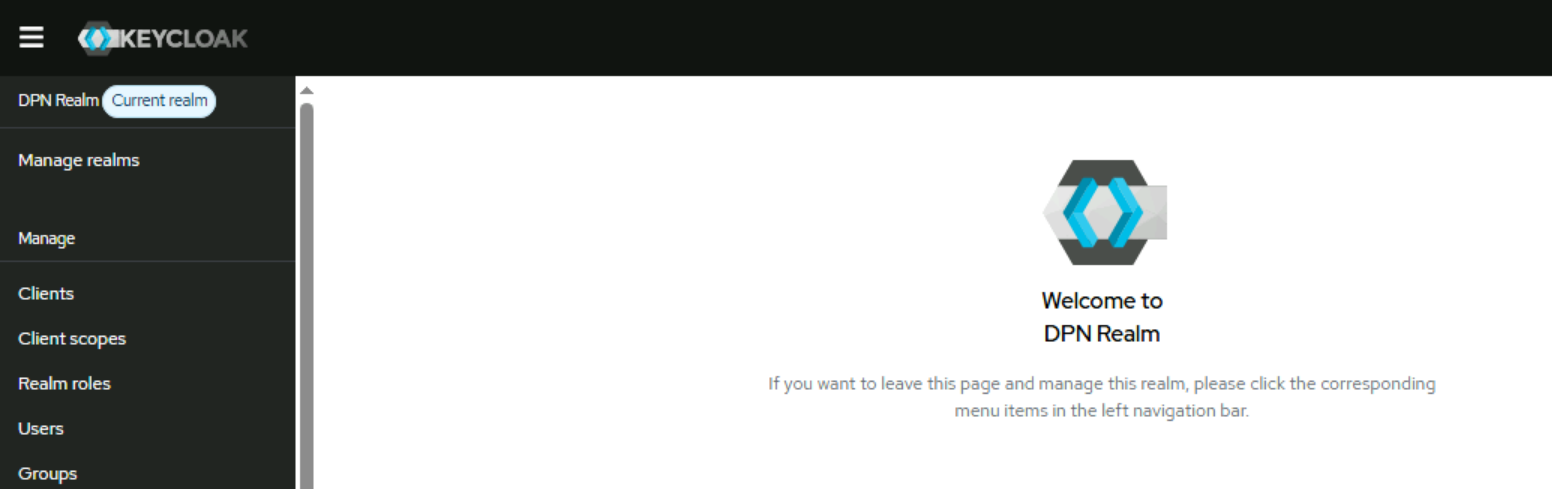
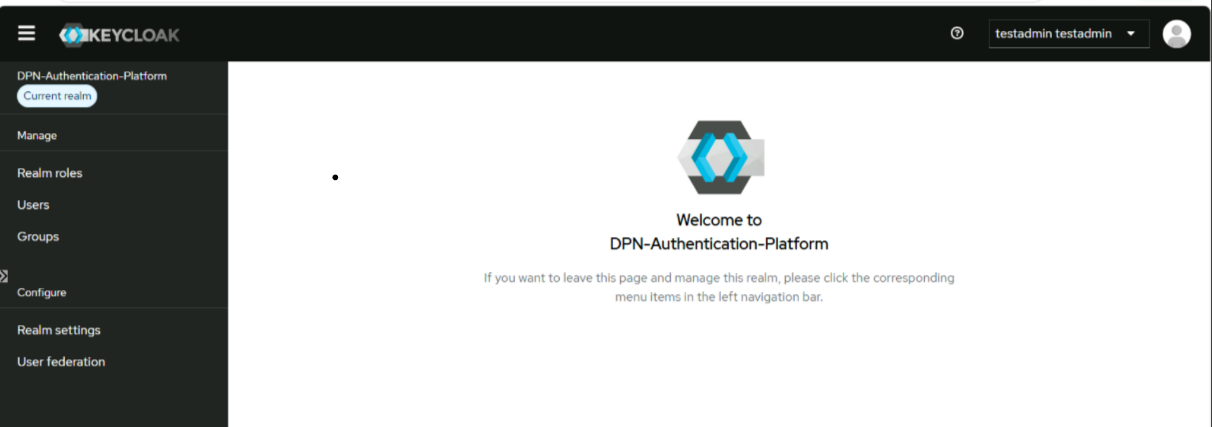
Update Keycloak operations guide and DPN realm landing page image

diff --git a/Docs/05-dpn-user-interfaces/09-dpn-keycloak-operations.md b/Docs/05-dpn-user-interfaces/09-dpn-keycloak-operations.md
@@ -23,23 +23,29 @@ d) delete user
 
 
 ## 2. Accessing the Portal
-
+The portal can be accessed via keycloak admin or dpnadmin role
+For keycloak admin role use below url
 ```text
 https://dpn-keycloak-service-lb.<namespace>.svc.cluster.local:<portal-port>
 ```
+For dpnadmin role use below url
+```text
+https://dpn-keycloak-service-lb.<namespace>.svc.cluster.local:<portal-port>/admin/dpn-realm/console/
+```
+
 ![Keycloak login page](images/09_keycloak_login_page.jpg)
 
-Use only adminstrator's credential to login.
 
-a) After login administrator lands at default landing page
+
+a) After login using keycloak admin role user administrator lands at default landing page
    ![Keycloak landing page](images/09_keycloak_landing_page.png)
-b) Go to Manage realms where all realms are listed
+b) Keycloak admin can manage all the realms from Manage realms 
    ![Manage realms](images/09_keycloak_manage_realms.png)
-c) Choose dpn-realm as this is specifically pre-configured for dpn UI components. Once dpn-realm is selected user lands at
+c) If logged in using dpnadmin user (which is specifically pre-configured for dpn UI components) user lands at
    ![DPN realm landing page](images/09_keycloak_dpn_realm_landing_page.png)
 d) Click on Realm roles to see available pre-configured roles for dpn
    ![DPN realm roles](images/09_keycloak_dpn_realm_roles.png)
-Note that dpnadmin and dpnreader roles are pre-configured for dpn. Rest of them are default roles.
+Note that dpnadmin, dpnreader and dpnaperator roles are pre-configured for dpn. Rest of them are default or custom roles.
 
 ## 3. User Management in DPN Keycloak
 
@@ -55,9 +61,9 @@ a) User Creation:
     ![Create user - step 4](images/09_keycloak_user_creation_step4_dpnadminuser2.png)
     v. Move to Role Mapping. This is where user is attached to a role. Click on Assign Role and choose Realm roles from dropdown.
     ![Create user - step 5](images/09_keycloak_user_creation_step5_dpnadminuser2.png)
-    vi. Select dpnadmin or dpnreader as the role. If the user is expected to perform read/write activities then choose dpnadmin as role. If user is expected to have view ability then choose dpnreader as role.
+    vi. Select dpnadmin , dpnreader or dpnoperator as the role. If the user is expected to perform read/write activities then choose dpnadmin as role. If user is expected to have view ability then choose dpnreader as role. If user is expected only to manage dpn pipeline orchestration then choose dpnoperator role
     ![Create user - step 6](images/09_keycloak_user_creation_step6_dpnadminuser2.png)
-    vii. Move to group allocation. This is where user is made part of any of the already created groups. For dpnadmin role users select dpn-admins or select dpn-readers for dpnreader role users.
+    vii. Move to group allocation. This is where user is made part of any of the already created groups. For dpnadmin role users select dpn-admins or select dpn-readers for dpnreader role users or select dpn-operators for dpnoperator role users
     ![Create user - step 7](images/09_keycloak_user_creation_step7_dpnadminuser2.png)
     Once above steps are performed then save it.Following the above steps the administrator of DPN Keycloak create a new user, sets credential , assign to a role and its corresponding group.
     Upon creation of user the user now becomes available to use for DPN UI portals.
